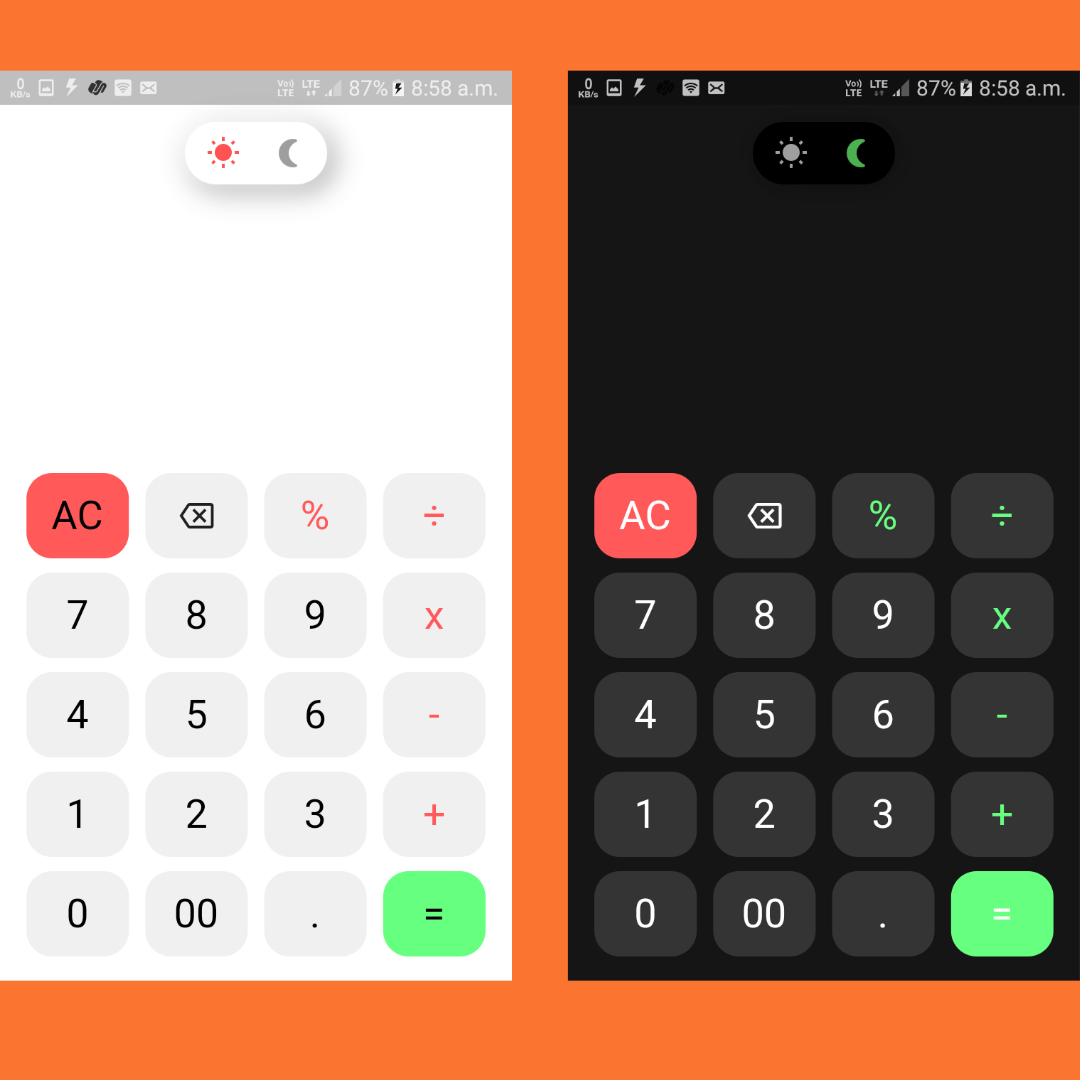
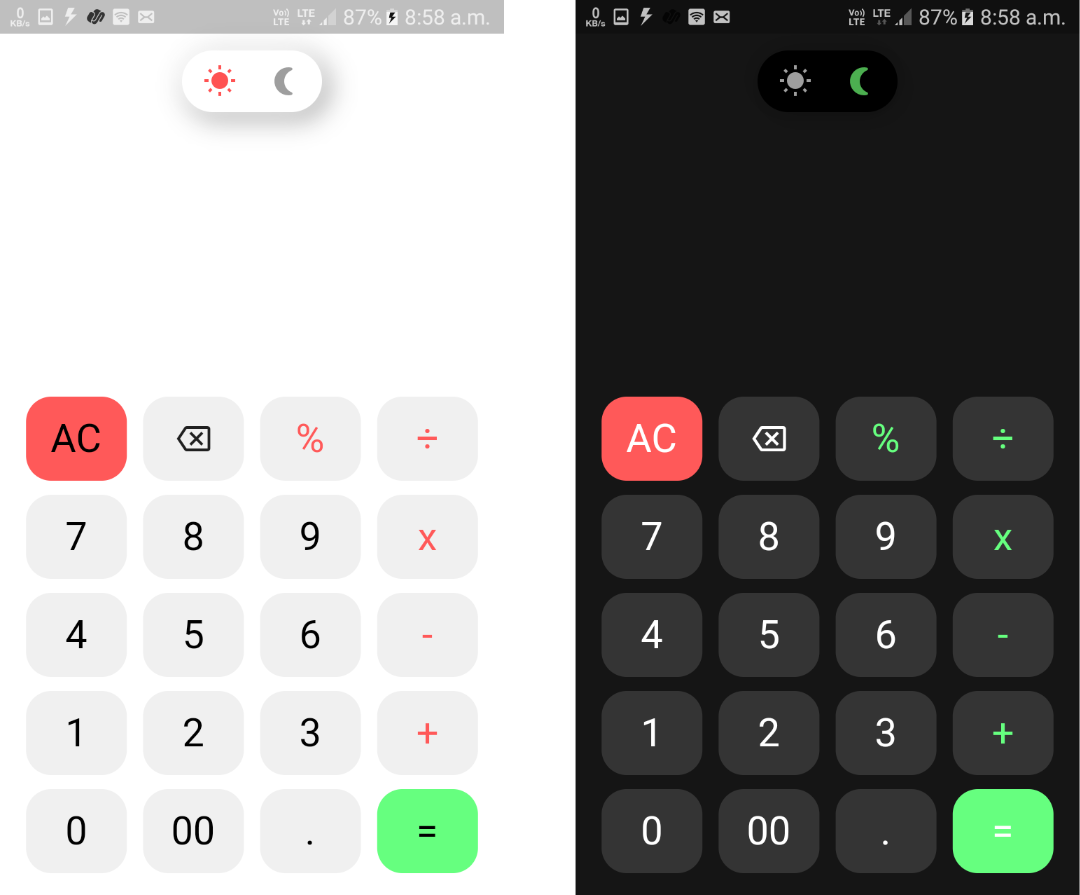
Green Theme Added

diff --git a/src/App.css b/src/App.css
@@ -1,9 +1,11 @@
 @import url('https://fonts.googleapis.com/css2?family=Poppins:wght@400;500;600&display=swap');
 
-/* html {
-    scroll-behavior: smooth;
-} */
-
+:root {
+    --bg-color: #fb7430;
+}
+html {
+    scroll-padding: 40px;
+}
 * {
     margin: 0;
     padding: 0;
@@ -14,7 +16,7 @@
 body {
     max-width: 100vw;
     min-height: 100vh;
-    background-color: #fb7430;
+    background-color: var(--bg-color);
     overflow-x: hidden;
     display: flex;
     justify-content: center;
@@ -23,7 +25,7 @@ body {
 
 a {
     text-decoration: none;
-    color: #fb7430;
+    color: var(--bg-color);
 }
 
 p {
@@ -33,7 +35,7 @@ p {
 nav {
     width: 100vw;
     height: 60px;
-    background-color: #fb7430;
+    background-color: var(--bg-color);
     color: white;
     display: flex;
     align-items: center;
@@ -77,7 +79,7 @@ nav ul li {
 
 nav ul li:hover {
     background-color: white;
-    color: #fb7430;
+    color: var(--bg-color);
 }
 
 nav #hamburgeIcon {
@@ -104,7 +106,7 @@ nav #hamburgeIcon {
     justify-content: space-evenly;
     align-items: center;
     margin: 0px auto;
-    background-color: #fb7430;
+    background-color: var(--bg-color);
     padding: 0px 20px;
 }
 
@@ -163,12 +165,12 @@ img {
 
 .about .text-color {
     display: inline;
-    color: #fb7430;
+    color: var(--bg-color);
 }
 
 .about a {
     text-decoration: none;
-    border-bottom: 2px solid #fb7430;
+    border-bottom: 2px solid var(--bg-color);
 }
 
 .about p {
@@ -291,7 +293,7 @@ footer p {
         margin: 0px;
         width: 93vw;
         background-color: white;
-        color: #fb7430;
+        color: var(--bg-color);
         padding: 10px 20px;
         border-radius: 0px;
     }

diff --git a/src/components/Navbar.jsx b/src/components/Navbar.jsx
@@ -9,17 +9,27 @@ const Navbar = () => {
 
   function toggleNavbar() {
     document.getElementById("navList").style.height = isVisible
-      ? "300px"
-      : "0px";
+      ? "0px"
+      : "300px";
     setVisibility(!isVisible);
   }
 
   function scrollTo(id) {
-    document.getElementById("navList").style.height = "0px";
-    setVisibility(!isVisible);
+    toggleNavbar();
     document
       .getElementById(id)
       .scrollIntoView({ behavior: "smooth", block: "start" });
+  }
+
+  function changeBgColor() {
+    var r = document.querySelector(":root");
+    var rs = getComputedStyle(r);
+    if (rs.getPropertyValue("--bg-color") === "#fb7430") {
+      r.style.setProperty("--bg-color", "#34bf49");
+    } else {
+      r.style.setProperty("--bg-color", "#fb7430");
+    }
+    toggleNavbar();
   }
 
   return (
@@ -34,6 +44,7 @@ const Navbar = () => {
         <li onClick={() => scrollTo("experience")}>Experience</li>
         <li onClick={() => scrollTo("projects")}>Projects</li>
         <li onClick={() => scrollTo("footer")}>Contact</li>
+        <li onClick={changeBgColor}>Theme</li>
       </ul>
       <RxHamburgerMenu id="hamburgeIcon" onClick={toggleNavbar} />
     </nav>

diff --git a/src/components/button.css b/src/components/button.css
@@ -6,13 +6,13 @@
     margin: 20px;
     position: relative;
     overflow: hidden;
-    border: 2px solid #fb7430;
+    border: 2px solid var(--bg-color);
     transition: color .5s;
     z-index: 1;
     font-size: 17px;
     border-radius: 6px;
     font-weight: 500;
-    color: #fb7430;
+    color: var(--bg-color);
     background-color: #211f1f;
     padding: 10px 35px;
 }
@@ -22,7 +22,7 @@
     content: "";
     position: absolute;
     z-index: -1;
-    background: #fb7430;
+    background: var(--bg-color);
     height: 350px;
     width: 500px;
     border-radius: 50%;

diff --git a/src/components/card.css b/src/components/card.css
@@ -1,11 +1,11 @@
 .card {
     width: 50%;
     background-color: #211f1f;
-    /* color: #fb7430; */
+    /* color: var(--bg-color); */
 }
 
 .card-button {
-    background-color: #fb7430;
+    background-color: var(--bg-color);
     border: 2px solid white;
     color: white;
     font-family: inherit;
@@ -28,11 +28,11 @@
 
 .card-button:hover {
     background-color: white;
-    color: #fb7430;
+    color: var(--bg-color);
 }
 
 .card-button:hover a {
-    color: #fb7430;
+    color: var(--bg-color);
 }
 
 .usedSkills {

diff --git a/src/Projects.jsx b/src/Projects.jsx
@@ -160,7 +160,7 @@ const Projects = () => {
 
   return (
     <div className="projects" id="projects">
-      <HorizontalBar title="Projects" bgColor="#fb7430" />
+      <HorizontalBar title="Projects" bgColor="var(--bg-color)" />
       {projects.map((project) => (
         <Card
           title={project.title}
